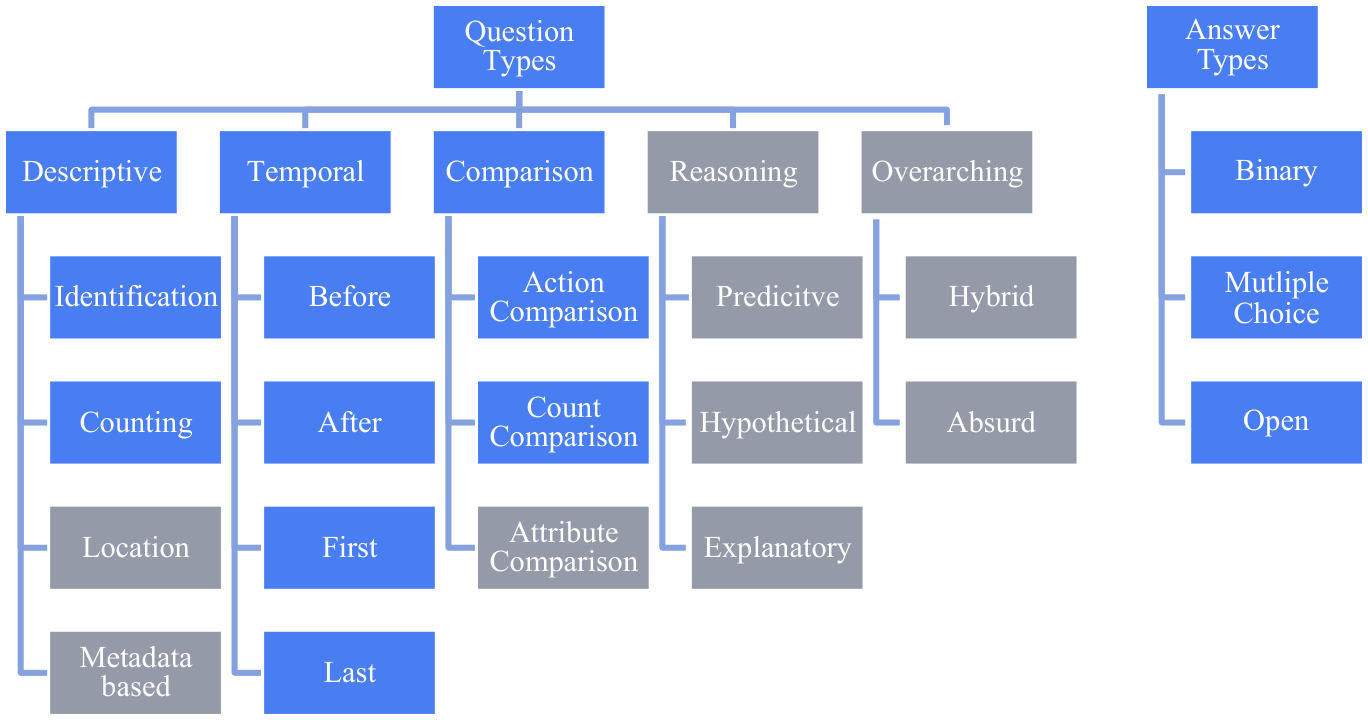
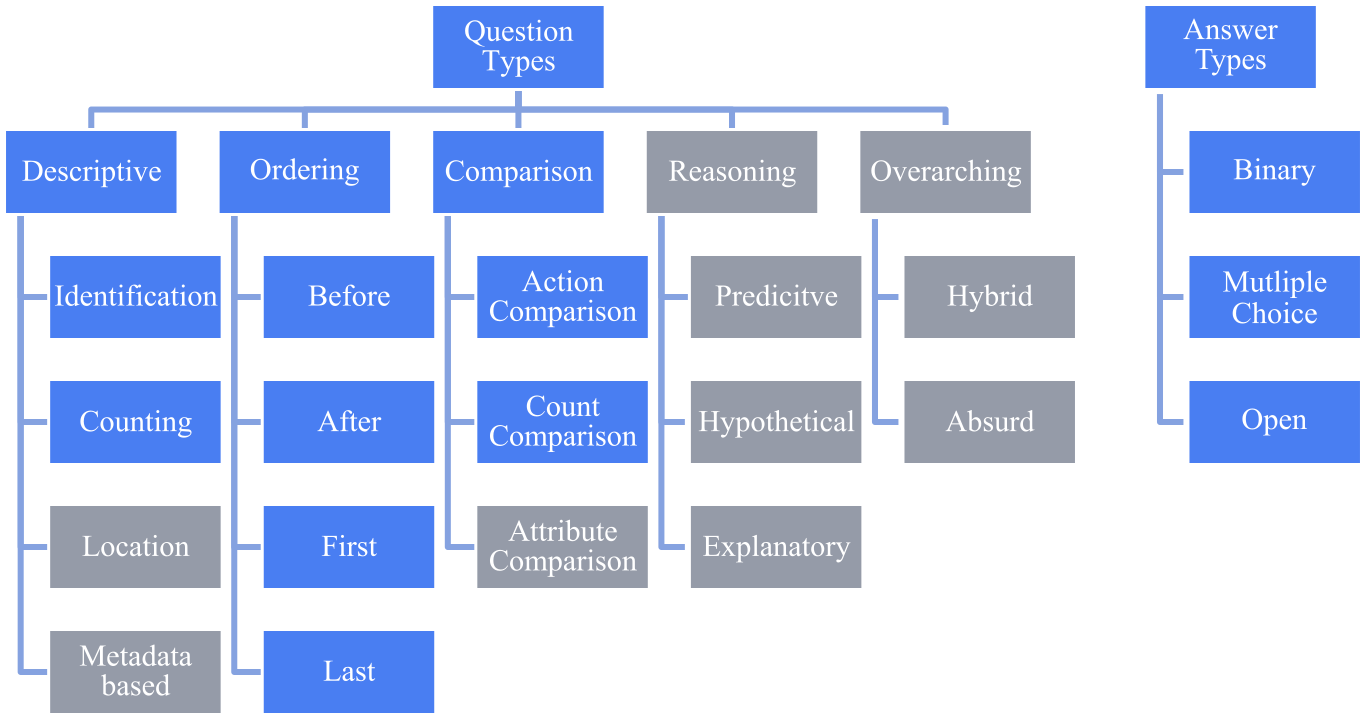
Camera Ready Cleanups

diff --git a/docs/index.html b/docs/index.html
@@ -241,16 +241,6 @@
                 </span>
 
                 <span class="link-block">
-                  <a href="https://openreview.net/forum?id=bNCDElSOXB" target="_blank"
-                     class="external-link button is-normal is-rounded is-dark">
-                    <span class="icon">
-                      <i class="ai ai-open-access"></i>
-                    </span>
-                    <span>OpenReview</span>
-                  </a>
-                </span>
-
-                <span class="link-block">
                   <a href="https://huggingface.co/datasets/dasyd/quants" target="_blank"
                      class="external-link button is-normal is-rounded is-dark">
                     <span class="icon">
@@ -271,13 +261,13 @@
                 </span>
 
                 <span class="link-block">
-                  <span class="button is-normal is-rounded is-dark is-placeholder" aria-disabled="true"
-                        title="The evaluation code will be released with the camera-ready version">
+                  <a href="https://github.com/felixdivo/quants-eval" target="_blank"
+                     class="external-link button is-normal is-rounded is-dark">
                     <span class="icon">
-                      <i class="fas fa-code"></i>
+                      <i class="fab fa-github"></i>
                     </span>
-                    <span>Evaluation Code (soon)</span>
-                  </span>
+                    <span>Evaluation Code</span>
+                  </a>
                 </span>
               </div>
             </div>
@@ -1070,10 +1060,10 @@ python -m generate prompts --num-samples 1000</code></pre>
         </button>
       </div>
       <pre id="bibtex-code"><code>@article{divo2025quants,
-      title={QuAnTS: Question Answering on Time Series},
-      author={Divo, Felix and Kraus, Maurice and Nguyen, Anh Q. and Xue, Hao and Razzak, Imran and Salim, Flora D. and Kersting, Kristian and Dhami, Devendra Singh},
-      journal={arXiv preprint arXiv:2511.05124},
-      year={2025},
+  title={QuAnTS: Question Answering on Time Series},
+  author={Divo, Felix and Kraus, Maurice and Nguyen, Anh Q. and Xue, Hao and Razzak, Imran and Salim, Flora D. and Kersting, Kristian and Dhami, Devendra Singh},
+  journal={arXiv preprint arXiv:2511.05124},
+  year={2025}
 }</code></pre>
     </div>
   </section>

diff --git a/README.md b/README.md
@@ -1,18 +1,18 @@
-#  QuAnTS: Question Answering on Time Series – Dataset Generation
+# QuAnTS: Question Answering on Time Series – Dataset Generation
 
-![Python 3.10+](https://img.shields.io/badge/python-3.10+-blue.svg)
-[![arXiv](https://img.shields.io/badge/arXiv-2511.05124-b31b1b.svg)](https://arxiv.org/abs/2511.05124)
-[![Project website](https://img.shields.io/badge/project-website-1f4e79.svg)](https://mauricekraus.github.io/quants-generate/)
-
-[![Dataset on HF](https://huggingface.co/datasets/huggingface/badges/resolve/main/dataset-on-hf-sm.svg)](https://huggingface.co/datasets/dasyd/quants)
+[![arXiv](https://img.shields.io/badge/arXiv-2511.05124-b31b1b.svg?logo=arxiv&logoColor=white)](https://arxiv.org/abs/2511.05124)
+[![Project Website](https://img.shields.io/badge/Project-Website-1f4e79.svg)](https://mauricekraus.github.io/quants-generate/)
+[![Dataset on Hugging Face](https://img.shields.io/badge/Hugging%20Face-Dataset-ffd21e.svg?logo=huggingface)](https://huggingface.co/datasets/dasyd/quants)
+[![Dataset Generation on GitHub](https://img.shields.io/badge/GitHub-Dataset%20Generation-blue.svg?logo=github)](https://github.com/mauricekraus/quants-generate)
+[![Evaluation on GitHub](https://img.shields.io/badge/GitHub-Evaluation-blue.svg?logo=github)](https://github.com/felixdivo/quants-eval)
 
 This repository holds the code for generating the multimodal QuAnTS dataset, comprised of time series of human activities and textual questions and answers.
 The purpose of the generated dataset is to lay the groundwork for a system that can answer questions based on time series data by examining how to produce a synthetic text and time series dataset that corresponds to real-world activities.
 Question and answer pairs are generated automatically from predefined question categories.
 
-Further information regarding the question categories can be found in the corresponding paper: *To be published*
+Further information regarding the question categories can be found in [the corresponding paper](https://arxiv.org/abs/2511.05124).
 
-<img src="docs/intro-chat.png" alt="Example chat motivating time series question answering: Q: 'What is the person doing first?', A: 'They are waving.', Q: 'How many times are they jumping after that?', A: '...'" width="40%"/>
+<img src="docs/static/images/chat.png" alt="Example chat motivating time series question answering: Q: 'What is the person doing first?', A: 'They are waving.', Q: 'How many times are they jumping after that?', A: '...'" width="40%"/>
 
 ## Usage of this repository
 
@@ -37,7 +37,7 @@ This repository also provides a Docker image and a [devcontainer](https://contai
 
 ### Overview
 
-![QuAnTS is generated in several steps: An action sequence is sampled ➀, where for each we sample five question and answer types ➁. For diversity, each of them is then instantiated from a sampled template ➂. The time series from the human motion diffusion ➃ is then combined with the QA-pair and auxiliary data ➄. Example QA pairs are shown below. Dice indicate randomized operations for dataset diversity.](docs/overview.png "Dataset generation overview")
+![QuAnTS is generated in several steps: An action sequence is sampled ➀, where for each we sample five question and answer types ➁. For diversity, each of them is then instantiated from a sampled template ➂. The time series from the human motion diffusion ➃ is then combined with the QA-pair and auxiliary data ➄. Example QA pairs are shown below. Dice indicate randomized operations for dataset diversity.](docs/static/images/overview.png "Dataset generation overview")
 
 
 Run `python -m generate --help` to get an overview of the available commands:
@@ -126,6 +126,6 @@ This repository is licensed under the MIT License.
 See the [LICENSE](LICENSE) file for details.
 This repository contains a copy of [the STMC codebase](https://github.com/nv-tlabs/stmc).
 
-For using the dataset and citing it, please refer to [the HuggingFace dataset repository](https://huggingface.co/datasets/dasyd/quants#licensing-citation-and-acknowledgments) (at the bottom).
+For using the dataset and citing it, please refer to [the HuggingFace dataset repository](https://huggingface.co/datasets/dasyd/quants#licensing-and-citation) (at the bottom).
 
 QuAnTS is inspired by the style of [ScienceQA](https://huggingface.co/datasets/derek-thomas/ScienceQA?row=1).
